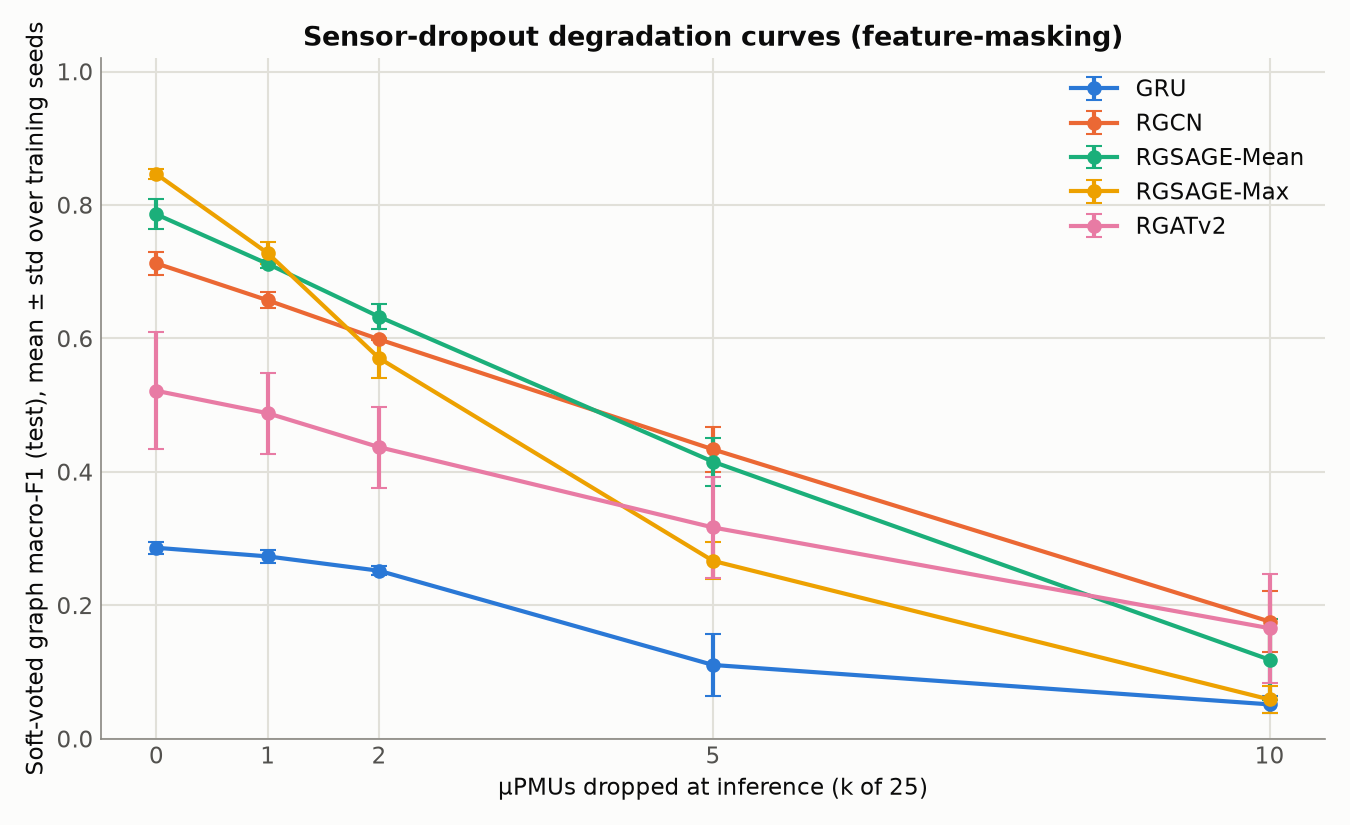
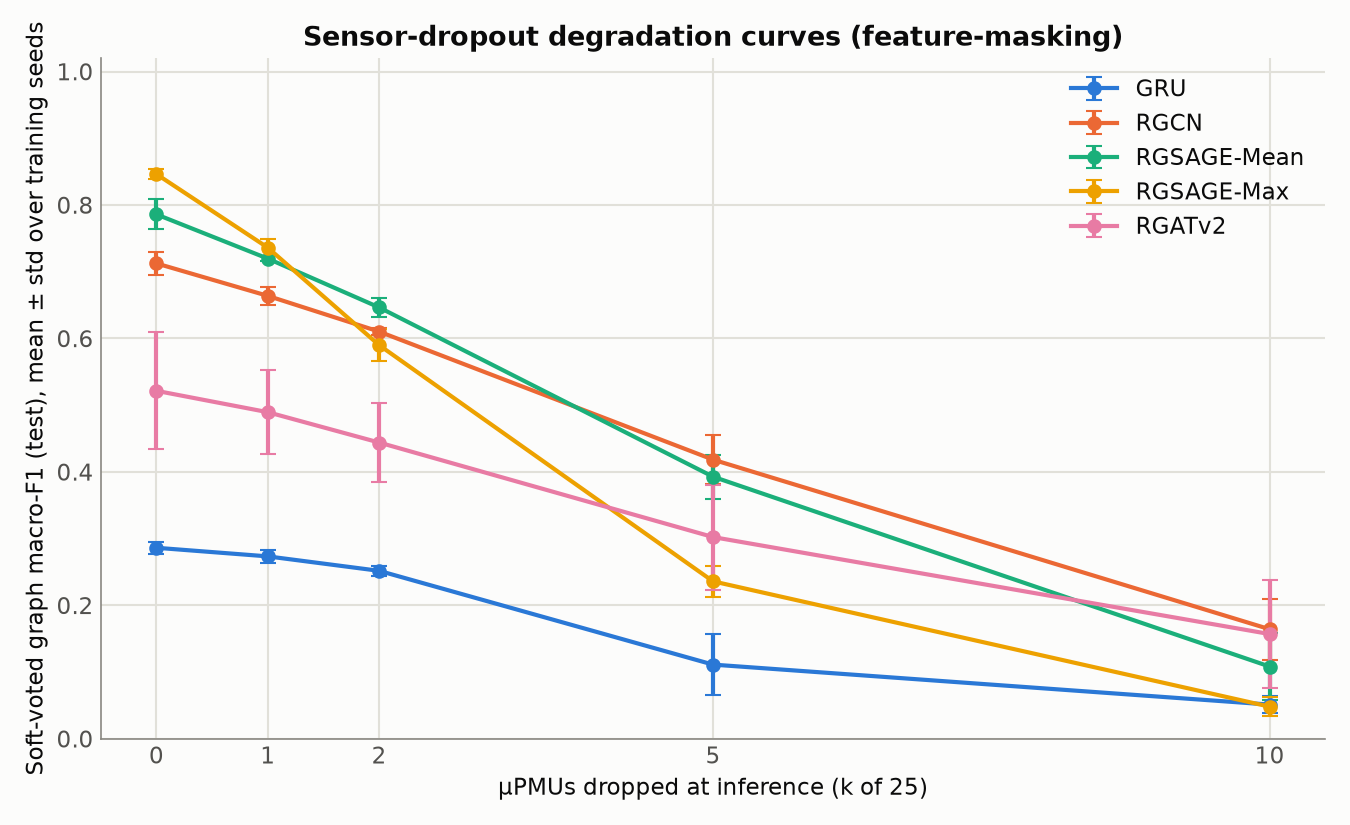
SOLVED THE EVALUATE AT DROPOUT

diff --git a/paper/ISSUES.md b/paper/ISSUES.md
@@ -1,0 +1,55 @@
+# ICMLDE Paper — Revision Checklist (overleaf.tex)
+
+## Global constraints
+- **EDIT ONLY** — no large structural rewrites (AI-plagiarism risk).
+- **Be truthful** — do not fabricate any claim, number, or result.
+
+## Section-level fixes
+
+### 1. Abstract
+- Content is fine. Verify every claim is accurate.
+
+### 2. Introduction
+- Content is fine. Verify every claim is accurate.
+
+### 3. Related Work
+- Extend the section: briefly describe each cited paper (what it does, one-line idea), then reference the comparison table.
+- Add a second paragraph stating the research gap identified and what motivated this work.
+- Verify all table claims are correct and consistent with the problem statement.
+
+### 4. Materials and Methods
+- Dataset is described in prose *and* repeated in a table — remove the duplication. Keep the table, add a short dataset paragraph that points to it.
+- Move the experimental setup into Materials and Methods (it belongs there).
+- Present the setup as short bullet points, then cite a setup table.
+
+### 9. Limitations
+- Shorten to one paragraph if possible; keep longer only if needed. Stay truthful.
+
+## Formatting & style (cross-cutting)
+
+### 5. Formulas
+- Number every equation and cite each one where it is used.
+
+### 6. Rhetorical questions in body
+- Replace question-form statements with direct points (e.g. "What the ablation isolates" → declarative point, not a question).
+
+### 7. Figure & table captions
+- Shorten all captions to a single concise sentence.
+
+### 8. Abbreviation formatting
+- Fix inline definitions to use a colon (e.g. "Availability" → "Availability:").
+
+### 12. Dashes
+- Replace long dashes (—) used between paragraphs with a plain hyphen (-) or remove entirely.
+
+### 13. Question-style headings
+- Rewrite heading/subheading questions as statements (e.g. "Which performs best" → declarative).
+
+## Verification pass
+### 11. Numbers & references
+- Cross-check all reported numbers and every cited reference.
+
+### 10. Figures — necessity check
+- Flag any figure that isn't needed; note where content should be added or swapped in.
+
+### 11. Ensure AI plag is not there 
